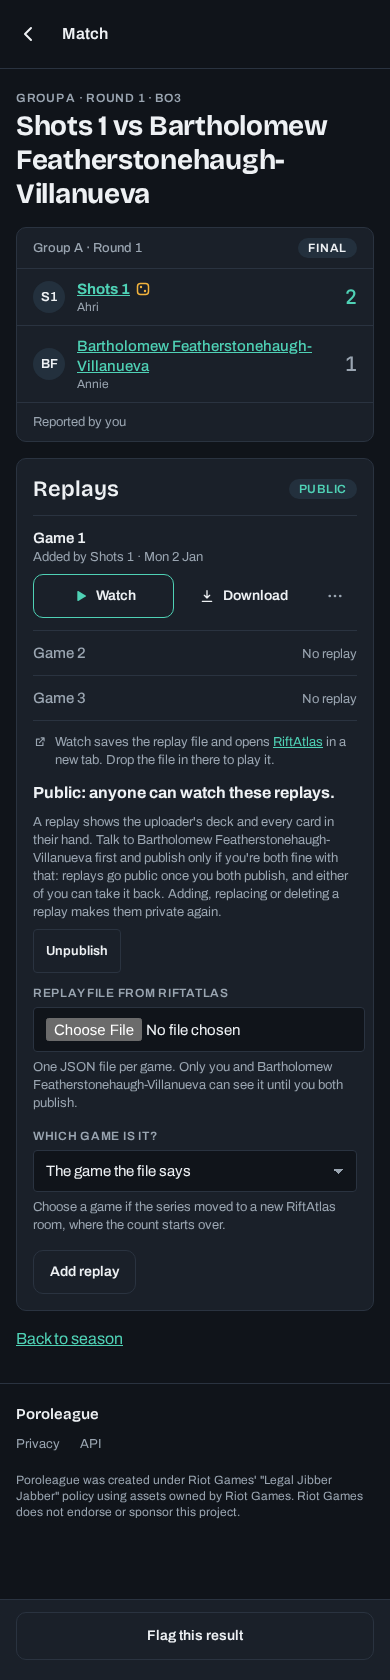
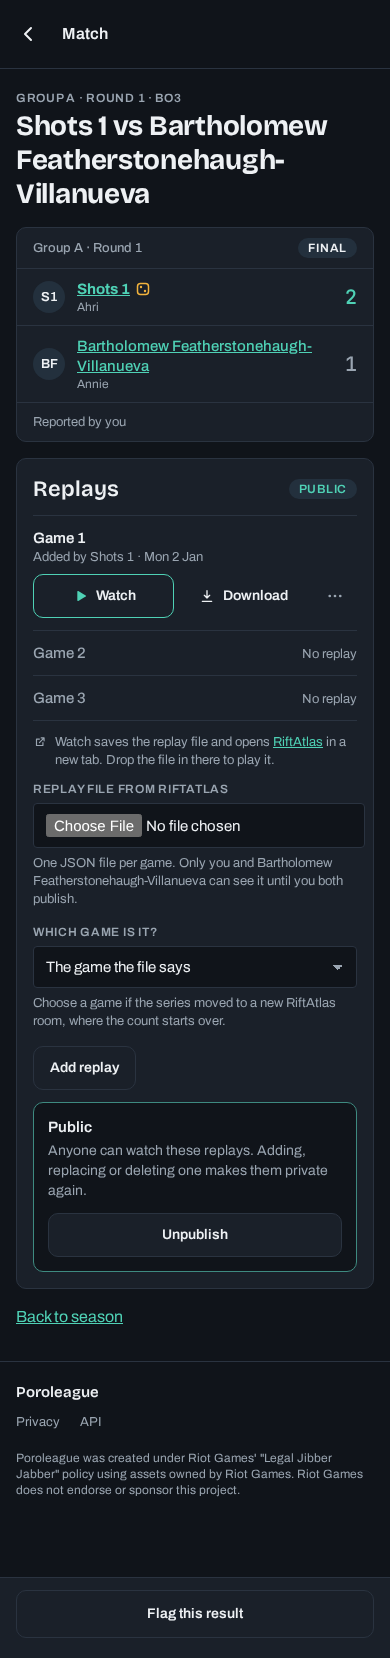
feat(replays): screenshot the publish states

diff --git a/shots/replays.spec.ts b/shots/replays.spec.ts
@@ -1,7 +1,15 @@
-// The replay panel as a player uses it: a pressed Watch and the row menu, which no plain page load shows.
+// The replay panel in states the main pages don't show: a pressed Watch and the row menu, and one
+// player's Publish.
 import { test } from '@playwright/test';
-import { freezeTimes, removeSeason, seedReplay, seedResult, seedSeason } from '../e2e/db.ts';
-import { SEASONS, player } from '../e2e/fixtures.ts';
+import {
+	freezeTimes,
+	publishReplays,
+	removeSeason,
+	seedReplay,
+	seedResult,
+	seedSeason
+} from '../e2e/db.ts';
+import { ORGANIZER, SEASONS, player } from '../e2e/fixtures.ts';
 import { NOW, day } from './now.ts';
 import { shot } from './shot.ts';
 
@@ -28,4 +36,12 @@ test('a match with replays, after pressing Watch', async ({ browser }) => {
 			await page.getByLabel('More for game 3').click();
 		}
 	);
+	// One player has pressed Publish: what that player, the other one and an organizer see.
+	publishReplays(match, true, false);
+	for (const [name, who] of [
+		['player-match-replays-waiting', player('shotsReplays', 1)],
+		['player-match-replays-asked', player('shotsReplays', 2)],
+		['org-match-replays-one-published', ORGANIZER]
+	])
+		await shot(browser, name, `/seasons/${SEASONS.shotsReplays}/matches/${match}`, who);
 });
